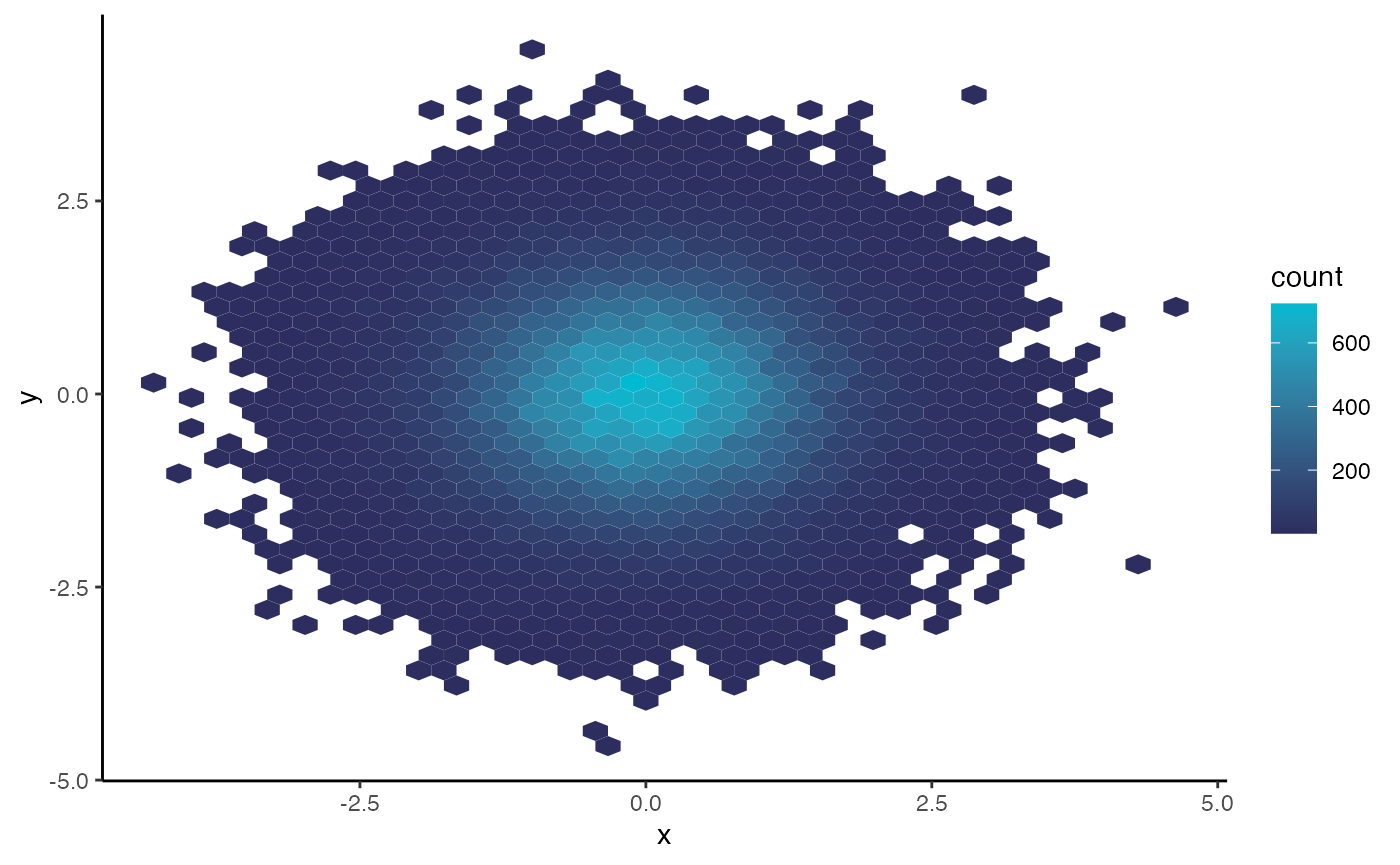
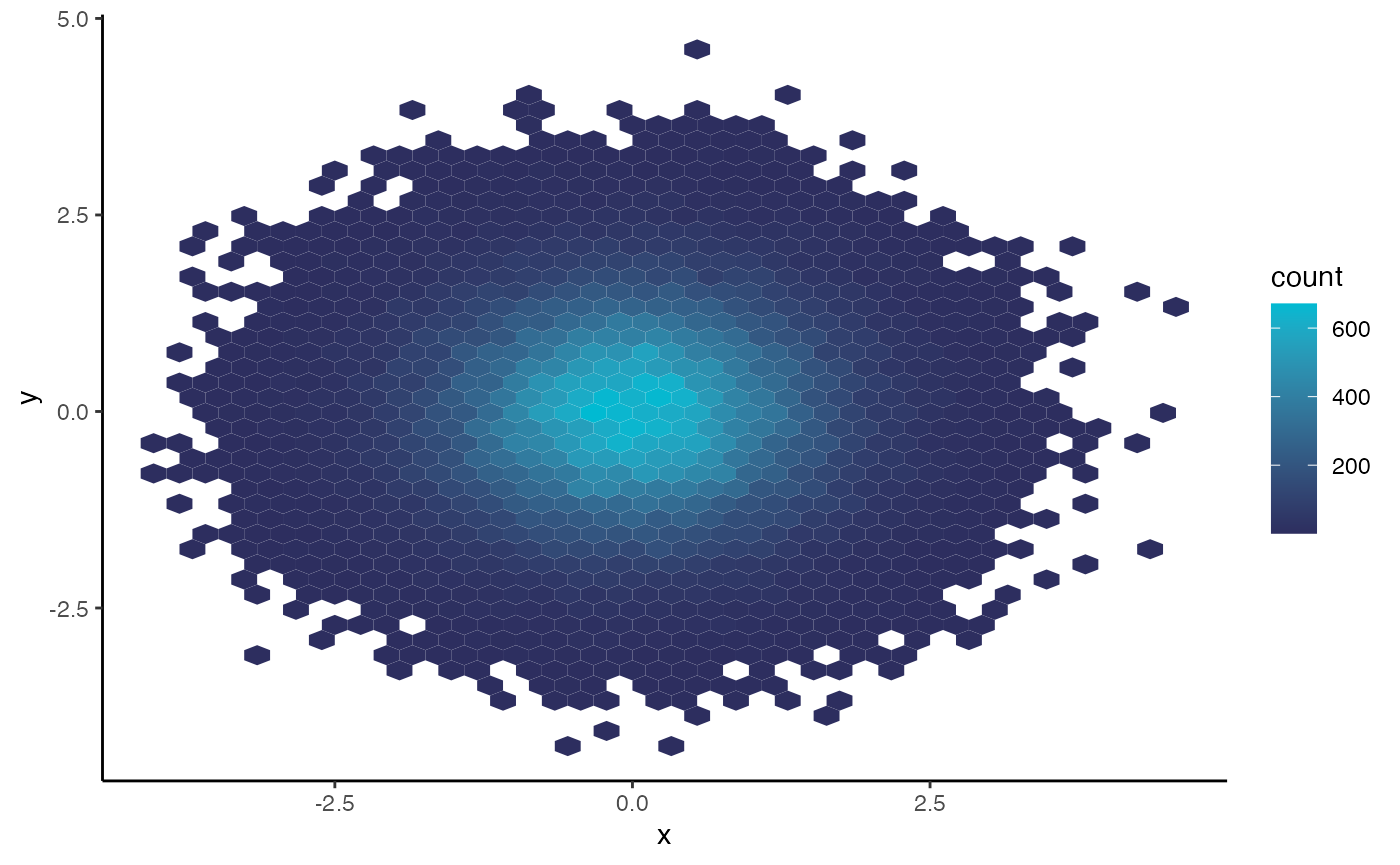
Documenting

diff --git a/docs/articles/HGUTheme.html b/docs/articles/HGUTheme.html
@@ -179,18 +179,18 @@ regression line on top. First we can make some fake data</p>
 <span><span class="op">)</span></span>
 <span><span class="va">plot_data</span></span>
 <span><span class="co">#&gt; <span style="color: #949494;"># A tibble: 100 × 2</span></span></span>
-<span><span class="co">#&gt;         x       y</span></span>
-<span><span class="co">#&gt;     <span style="color: #949494; font-style: italic;">&lt;dbl&gt;</span>   <span style="color: #949494; font-style: italic;">&lt;dbl&gt;</span></span></span>
-<span><span class="co">#&gt; <span style="color: #BCBCBC;"> 1</span> 0.903   1.07  </span></span>
-<span><span class="co">#&gt; <span style="color: #BCBCBC;"> 2</span> 0.035<span style="text-decoration: underline;">8</span> -<span style="color: #BB0000;">0.210</span> </span></span>
-<span><span class="co">#&gt; <span style="color: #BCBCBC;"> 3</span> 0.075<span style="text-decoration: underline;">6</span>  0.197 </span></span>
-<span><span class="co">#&gt; <span style="color: #BCBCBC;"> 4</span> 0.824   0.939 </span></span>
-<span><span class="co">#&gt; <span style="color: #BCBCBC;"> 5</span> 0.273   0.343 </span></span>
-<span><span class="co">#&gt; <span style="color: #BCBCBC;"> 6</span> 0.416   0.173 </span></span>
-<span><span class="co">#&gt; <span style="color: #BCBCBC;"> 7</span> 0.784   0.867 </span></span>
-<span><span class="co">#&gt; <span style="color: #BCBCBC;"> 8</span> 0.210   0.020<span style="text-decoration: underline;">2</span></span></span>
-<span><span class="co">#&gt; <span style="color: #BCBCBC;"> 9</span> 0.873   0.945 </span></span>
-<span><span class="co">#&gt; <span style="color: #BCBCBC;">10</span> 0.155   0.293 </span></span>
+<span><span class="co">#&gt;          x        y</span></span>
+<span><span class="co">#&gt;      <span style="color: #949494; font-style: italic;">&lt;dbl&gt;</span>    <span style="color: #949494; font-style: italic;">&lt;dbl&gt;</span></span></span>
+<span><span class="co">#&gt; <span style="color: #BCBCBC;"> 1</span> 0.196    0.007<span style="text-decoration: underline;">80</span></span></span>
+<span><span class="co">#&gt; <span style="color: #BCBCBC;"> 2</span> 0.685    0.908  </span></span>
+<span><span class="co">#&gt; <span style="color: #BCBCBC;"> 3</span> 0.514    0.679  </span></span>
+<span><span class="co">#&gt; <span style="color: #BCBCBC;"> 4</span> 0.414    0.720  </span></span>
+<span><span class="co">#&gt; <span style="color: #BCBCBC;"> 5</span> 0.154    0.195  </span></span>
+<span><span class="co">#&gt; <span style="color: #BCBCBC;"> 6</span> 0.782    0.704  </span></span>
+<span><span class="co">#&gt; <span style="color: #BCBCBC;"> 7</span> 0.313    0.408  </span></span>
+<span><span class="co">#&gt; <span style="color: #BCBCBC;"> 8</span> 0.009<span style="text-decoration: underline;">53</span> -<span style="color: #BB0000;">0.067</span><span style="color: #BB0000; text-decoration: underline;">9</span> </span></span>
+<span><span class="co">#&gt; <span style="color: #BCBCBC;"> 9</span> 0.144   -<span style="color: #BB0000;">0.035</span><span style="color: #BB0000; text-decoration: underline;">9</span> </span></span>
+<span><span class="co">#&gt; <span style="color: #BCBCBC;">10</span> 0.951    1.10   </span></span>
 <span><span class="co">#&gt; <span style="color: #949494;"># … with 90 more rows</span></span></span></code></pre></div>
 <p>Then we can make a simple plot that you might make for a
 presentation:</p>

diff --git a/docs/reference/hgu_palette.html b/docs/reference/hgu_palette.html
@@ -78,7 +78,7 @@
 <span class="r-out co"><span class="r-pr">#&gt;</span> {</span>
 <span class="r-out co"><span class="r-pr">#&gt;</span>     c(hgu_dark(), hgu_mid(), hgu_light())</span>
 <span class="r-out co"><span class="r-pr">#&gt;</span> }</span>
-<span class="r-out co"><span class="r-pr">#&gt;</span> &lt;bytecode: 0x7f9d73f62b40&gt;</span>
+<span class="r-out co"><span class="r-pr">#&gt;</span> &lt;bytecode: 0x7f8f1e1e6470&gt;</span>
 <span class="r-out co"><span class="r-pr">#&gt;</span> &lt;environment: namespace:HGUTheme&gt;</span>
 </code></pre></div>
     </div>
